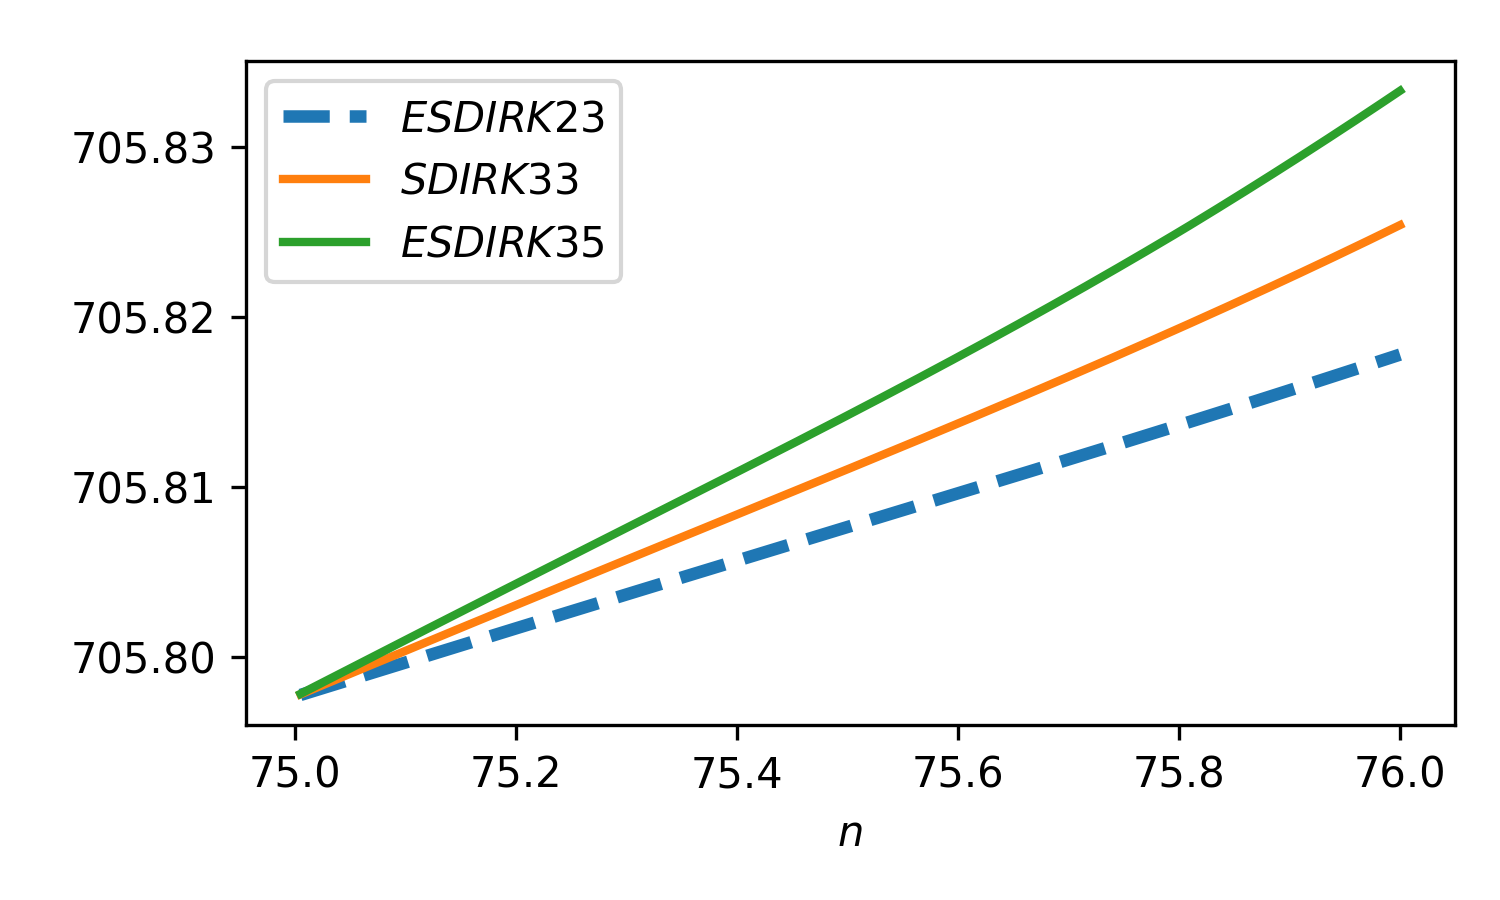
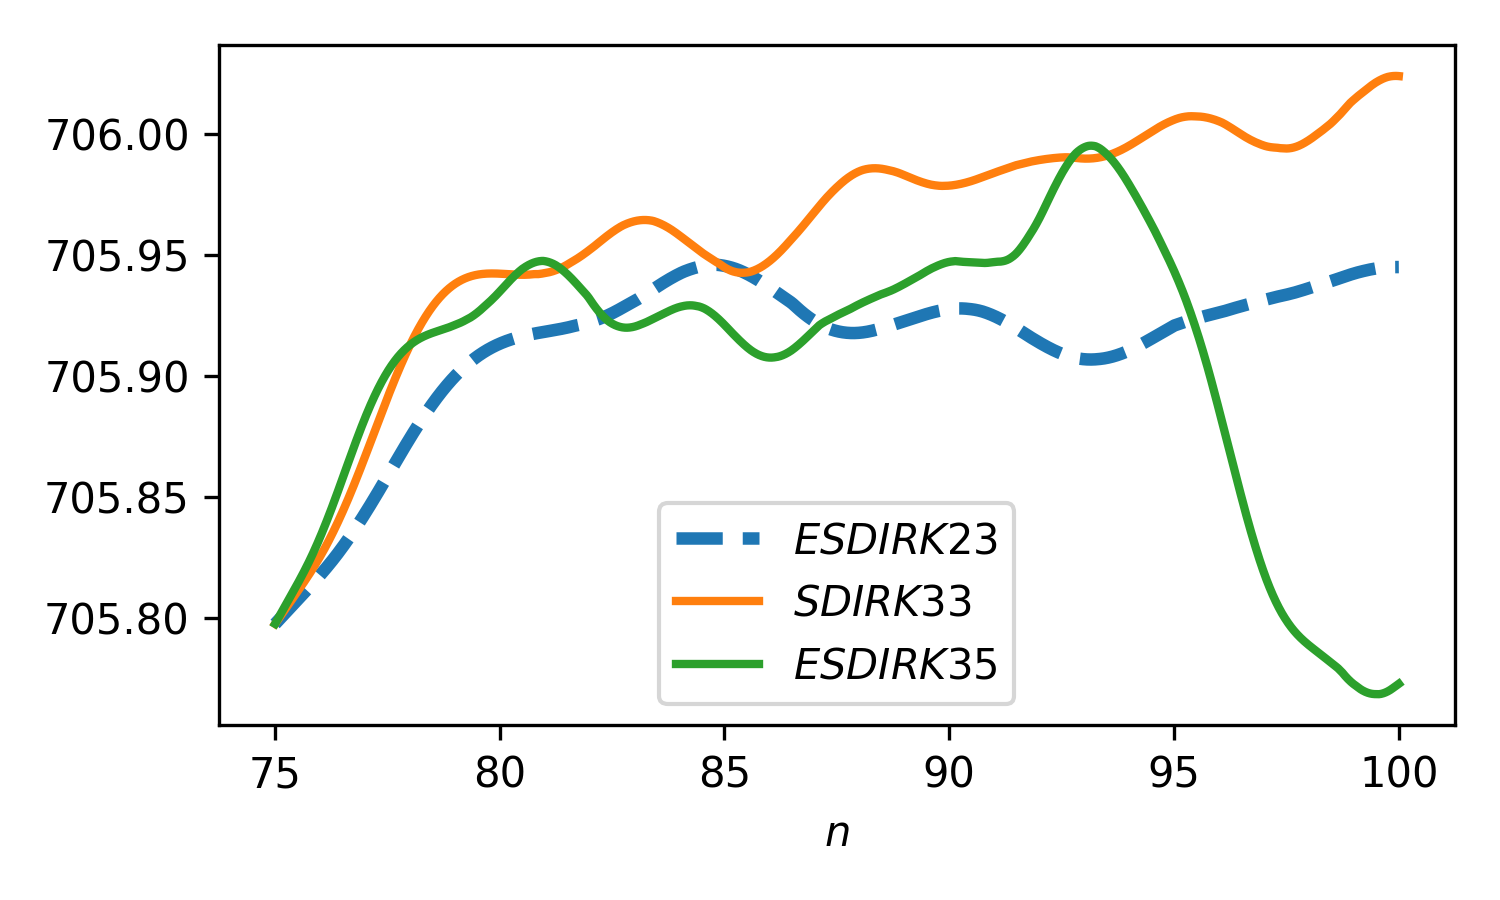
plot for sdirk33,esdirk23,esdirk35

diff --git a/2d-inc-cylinder/plot-compare-pseudo.py b/2d-inc-cylinder/plot-compare-pseudo.py
@@ -2,36 +2,35 @@ import matplotlib.pyplot as plt
 import numpy as np
 import pandas as pd
 
-fig, (ax, ax2) = plt.subplots(2, 1, figsize=(10, 5))
+fig, (ax, ax2, ax3) = plt.subplots(3, 1, figsize=(10, 5))
 
 
 df1  = pd.read_csv('res_esdirk23.csv')
 df2  = pd.read_csv('res_sdirk33.csv')
-#df3  = pd.read_csv('res_sdirk43.csv')
 df4  = pd.read_csv('res_esdirk35.csv')
 
 # Plot only the fifth entry
 
 ax.semilogy(df2['t'][::15]  , df2['p'][::15],  label=r'$SDIRK33$')
-#ax.semilogy(df3['t'][::15]  , df3['p'][::15],  label=r'$SDIRK43$')
 ax.semilogy(df1['t'][10::11], df1['p'][10::11],  label=r'$ESDIRK23$')
 ax.semilogy(df4['t'][20::21], df4['p'][20::21],  label=r'$ESDIRK35$')
 
 ax.set_xlabel(r'$t$')
 
-ax2.semilogy(df2['n'][:15], df2['p'][:15],  label=r'$SDIRK33$')
-#ax2.semilogy(df3['n'][:15], df3['p'][:15],  label=r'$SDIRK43$')
 ax2.semilogy(df1['n'][:11], df1['p'][:11],  label=r'$ESDIRK23$')
+ax2.semilogy(df2['n'][:15], df2['p'][:15],  label=r'$SDIRK33$')
 ax2.semilogy(df4['n'][:21], df4['p'][:21],  label=r'$ESDIRK35$')
-
-# circle the last point with the same color as the line
-ax2.scatter(df2['n'][14], df2['p'][14], s=100, facecolors='none', edgecolors='C0')
-#ax2.scatter(df3['n'][14], df3['p'][14], s=100, facecolors='none', edgecolors='C1')
-ax2.scatter(df1['n'][10], df1['p'][10], s=100, facecolors='none', edgecolors='C1')
+ax2.scatter(df1['n'][10], df1['p'][10], s=100, facecolors='none', edgecolors='C0')
+ax2.scatter(df2['n'][14], df2['p'][14], s=100, facecolors='none', edgecolors='C1')
 ax2.scatter(df4['n'][20], df4['p'][20], s=100, facecolors='none', edgecolors='C2')
-
 ax2.set_xlabel(r'$n$')
 ax2.legend(loc='best')
+
+ax3.semilogy(df1['n'][:11], df1['p'][-11:],  label=r'$ESDIRK23$')
+ax3.semilogy(df2['n'][:15], df2['p'][-15:],  label=r'$SDIRK33$')
+ax3.semilogy(df4['n'][:21], df4['p'][-21:],  label=r'$ESDIRK35$')
+ax3.set_xlabel(r'$n$')
+ax3.legend(loc='best')
 
 plt.tight_layout()
 plt.savefig('res.png')
